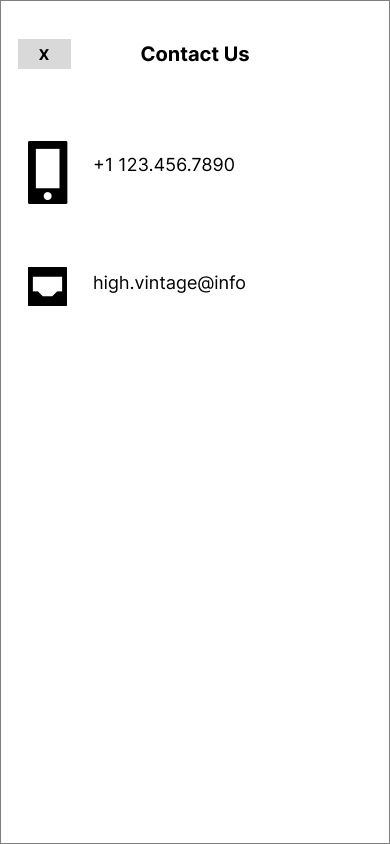
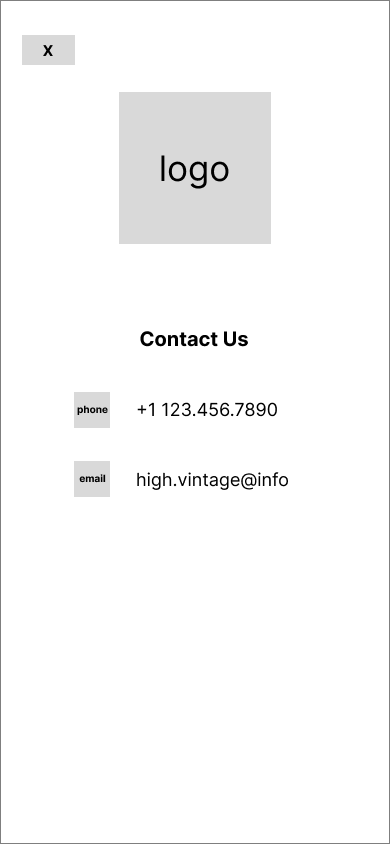
Main page section for sprint 0 part a added

diff --git a/UX-DESIGN.md b/UX-DESIGN.md
@@ -12,7 +12,32 @@ Replace the contents of this file with the completed assignments, as described i
 Any functionality of the screen that is not obvious should be written into the document. -->
 
 ## **Create Account & Home )**
+### Login Page
+<img src="./ux-design/0a-create-account.png" alt= "create-account" width="25%">
+- User will first be met with this page if they were never on the site before.
+- User can either sign in if they have an existing account or be able to create account
+- User can also just view the site as a guest but won't be able to use features such as saving posts and likes.
+- User can view contact info or view the terms of services.
 
+### Contact Us Page
+<img src="./ux-design/0b-contact-us.png" alt= "contact-us" width="25%">
+- User will be able to contact the site through either phone or email.
+- User can click either the x or the logo button to go back to login page or the main page.
+
+### Terms of Service
+<img src="./ux-design/0c-terms-of-service.png" alt= "terms-of-service" width="25%">
+- User can view the terms of service.
+- User can click the x to go back to the login or main home page.
+
+### Main Home Page
+<img src="./ux-design/0d-home.png" alt= "home" width="25%">
+- User can view the main home page here with all the posts related to your interest or from your follows.
+- User can view posts related to thrifting from other users here.
+- User can click on their profile names to visit their profile page.
+- User can click on search and search items or other users to see related posts.
+- User can like and comment on other people's post similar to other social medias.
+- User can also save posts
+- User can click on the ask Highvintager button to go to the discussion page.
 
 ---
 
